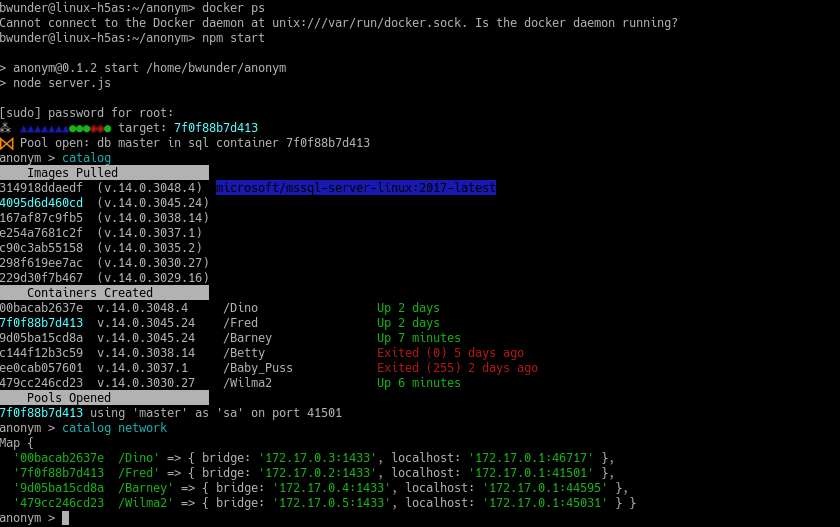
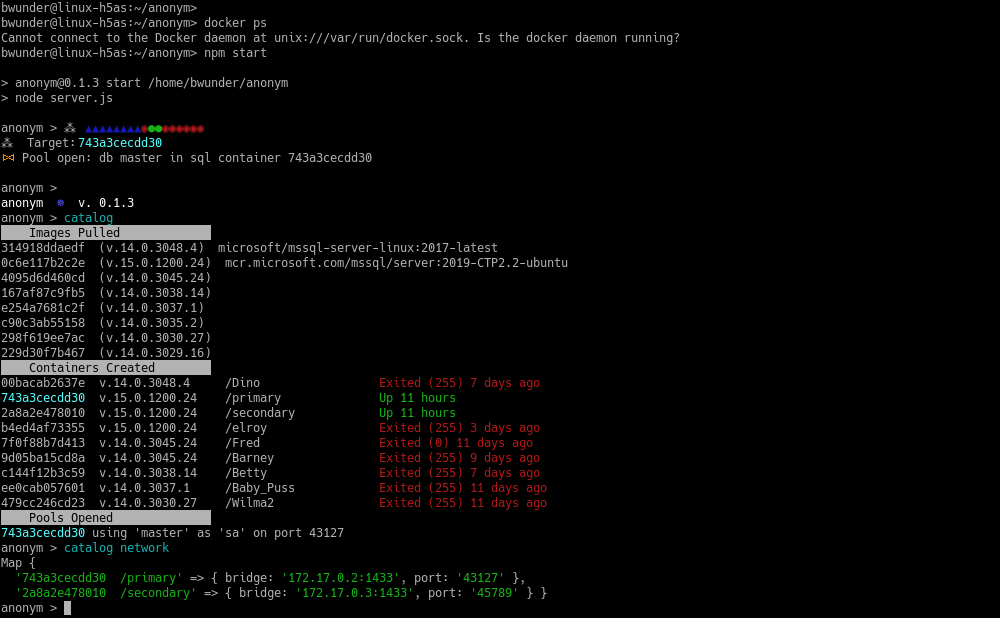
v0.1.3 screenshots

Changed region(s): [[0.0, 0.1214, 0.7429, 1.0], [0.0, 0.0, 0.8048, 0.0911]]

diff --git a/lib/catalog.js b/lib/catalog.js
@@ -57,7 +57,7 @@ module.exports = catalog = {
           if (info.State==='running') {
             addressMap.set(`${id}  ${info.Names[0]}`, {  
               bridge: `${info.NetworkSettings.Networks.bridge.IPAddress}:${info.Ports[0].PrivatePort}`,
-              localhost: `${info.NetworkSettings.Networks.bridge.Gateway}:${info.Ports[0].PublicPort}`
+              port: `${info.Ports[0].PublicPort}`
             })
           }
         }
